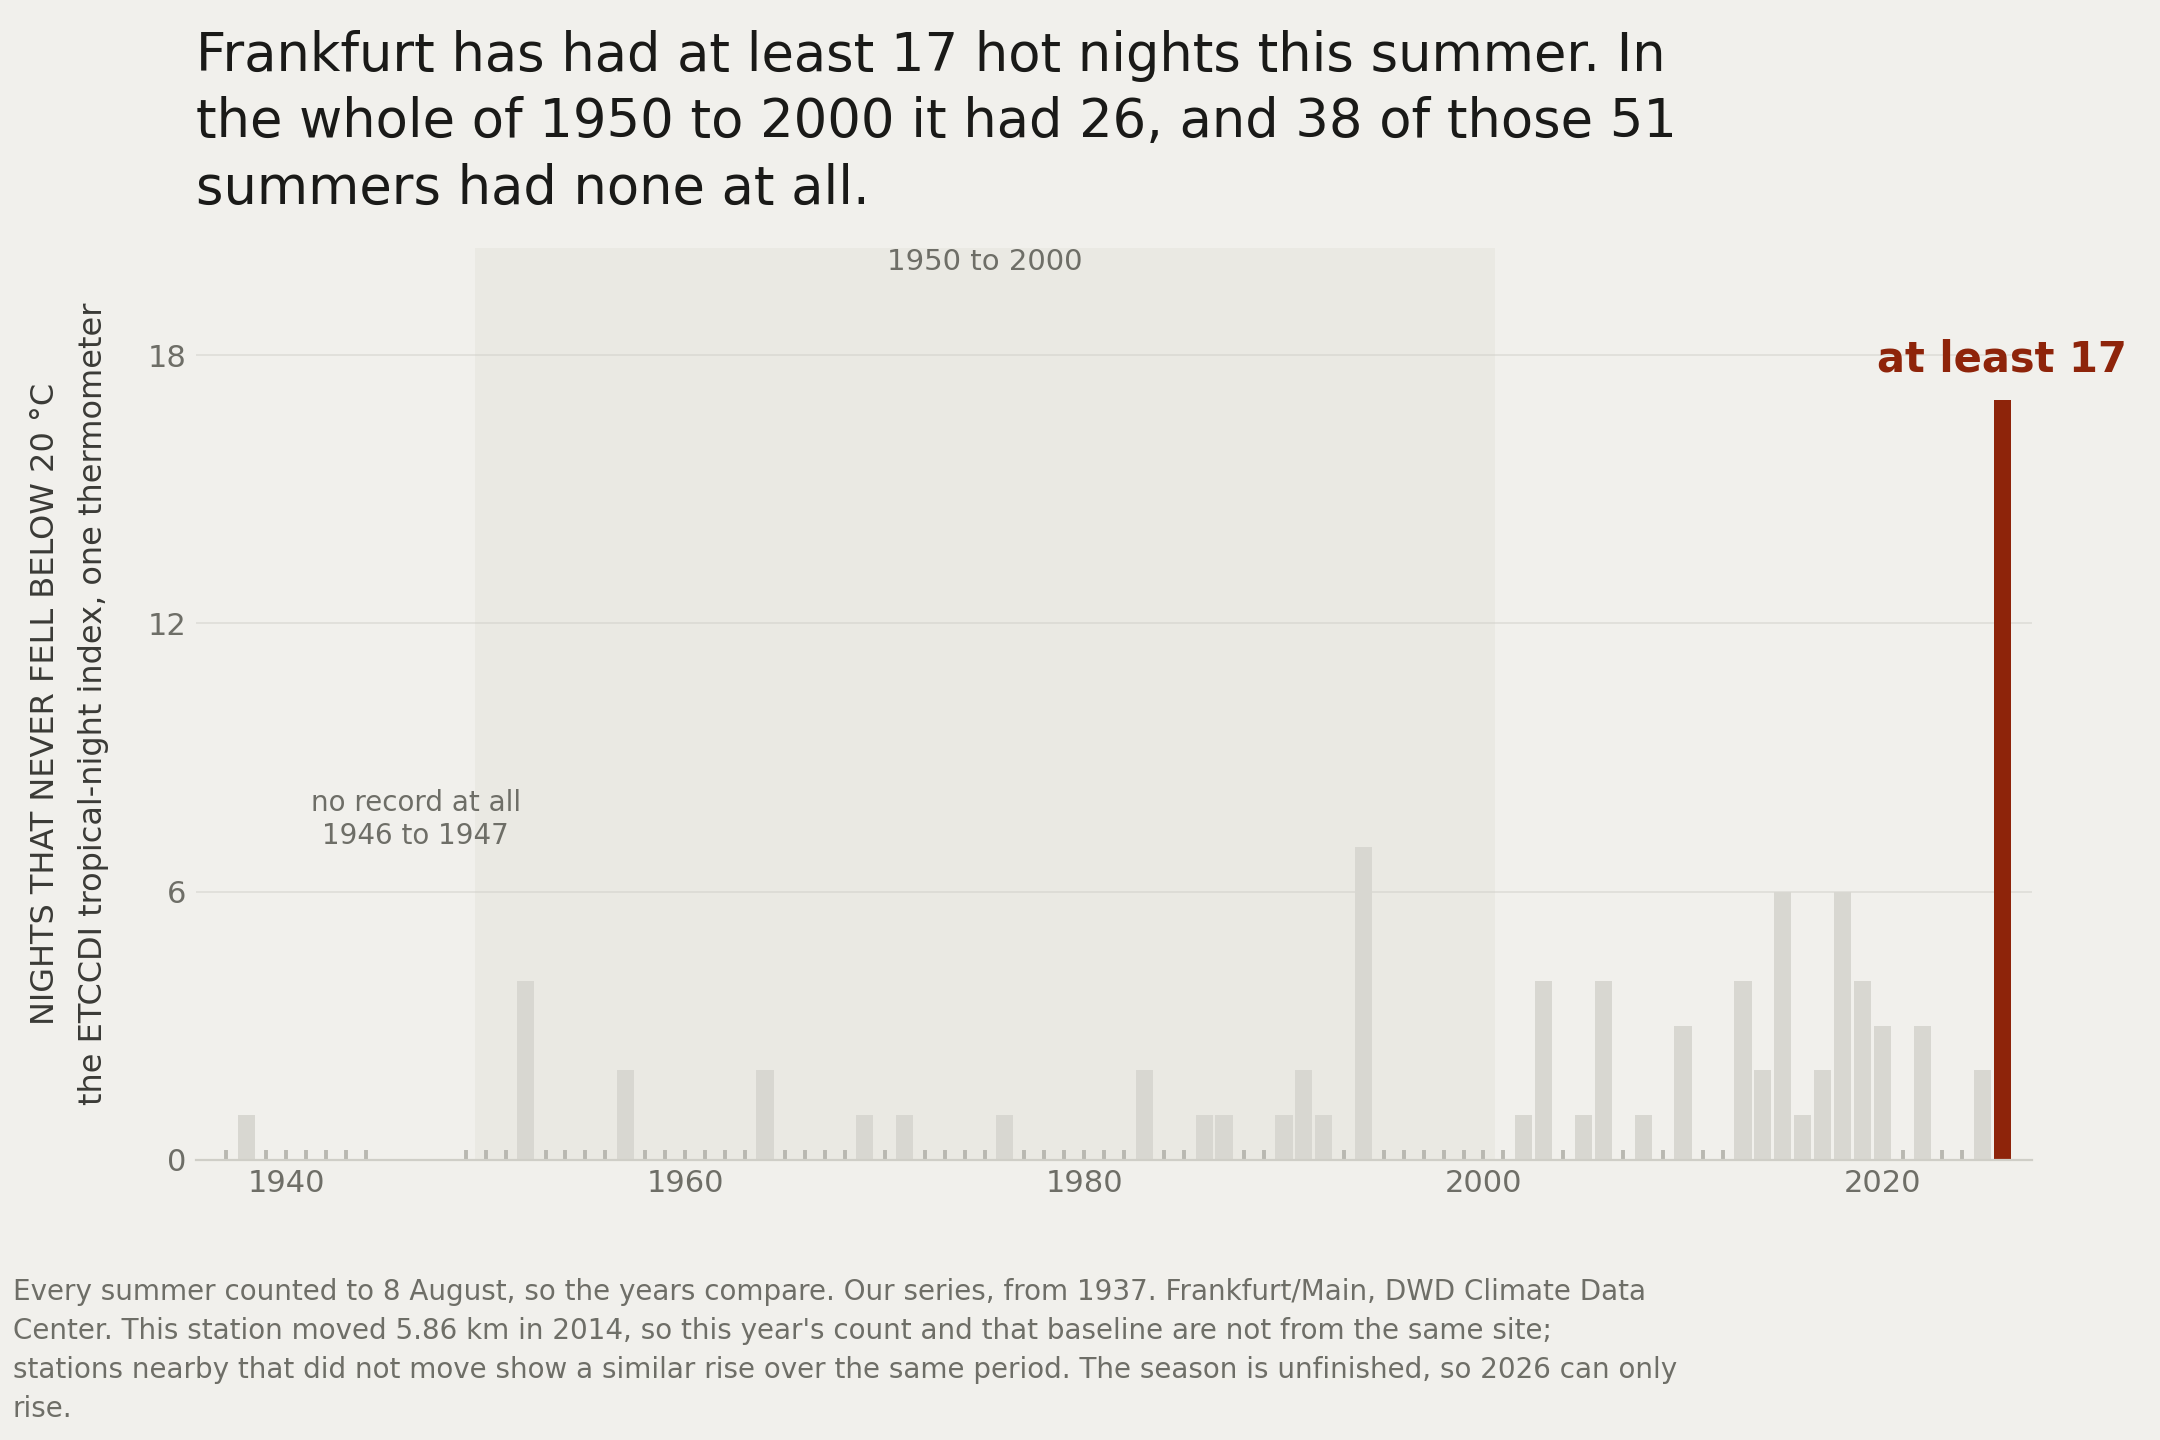
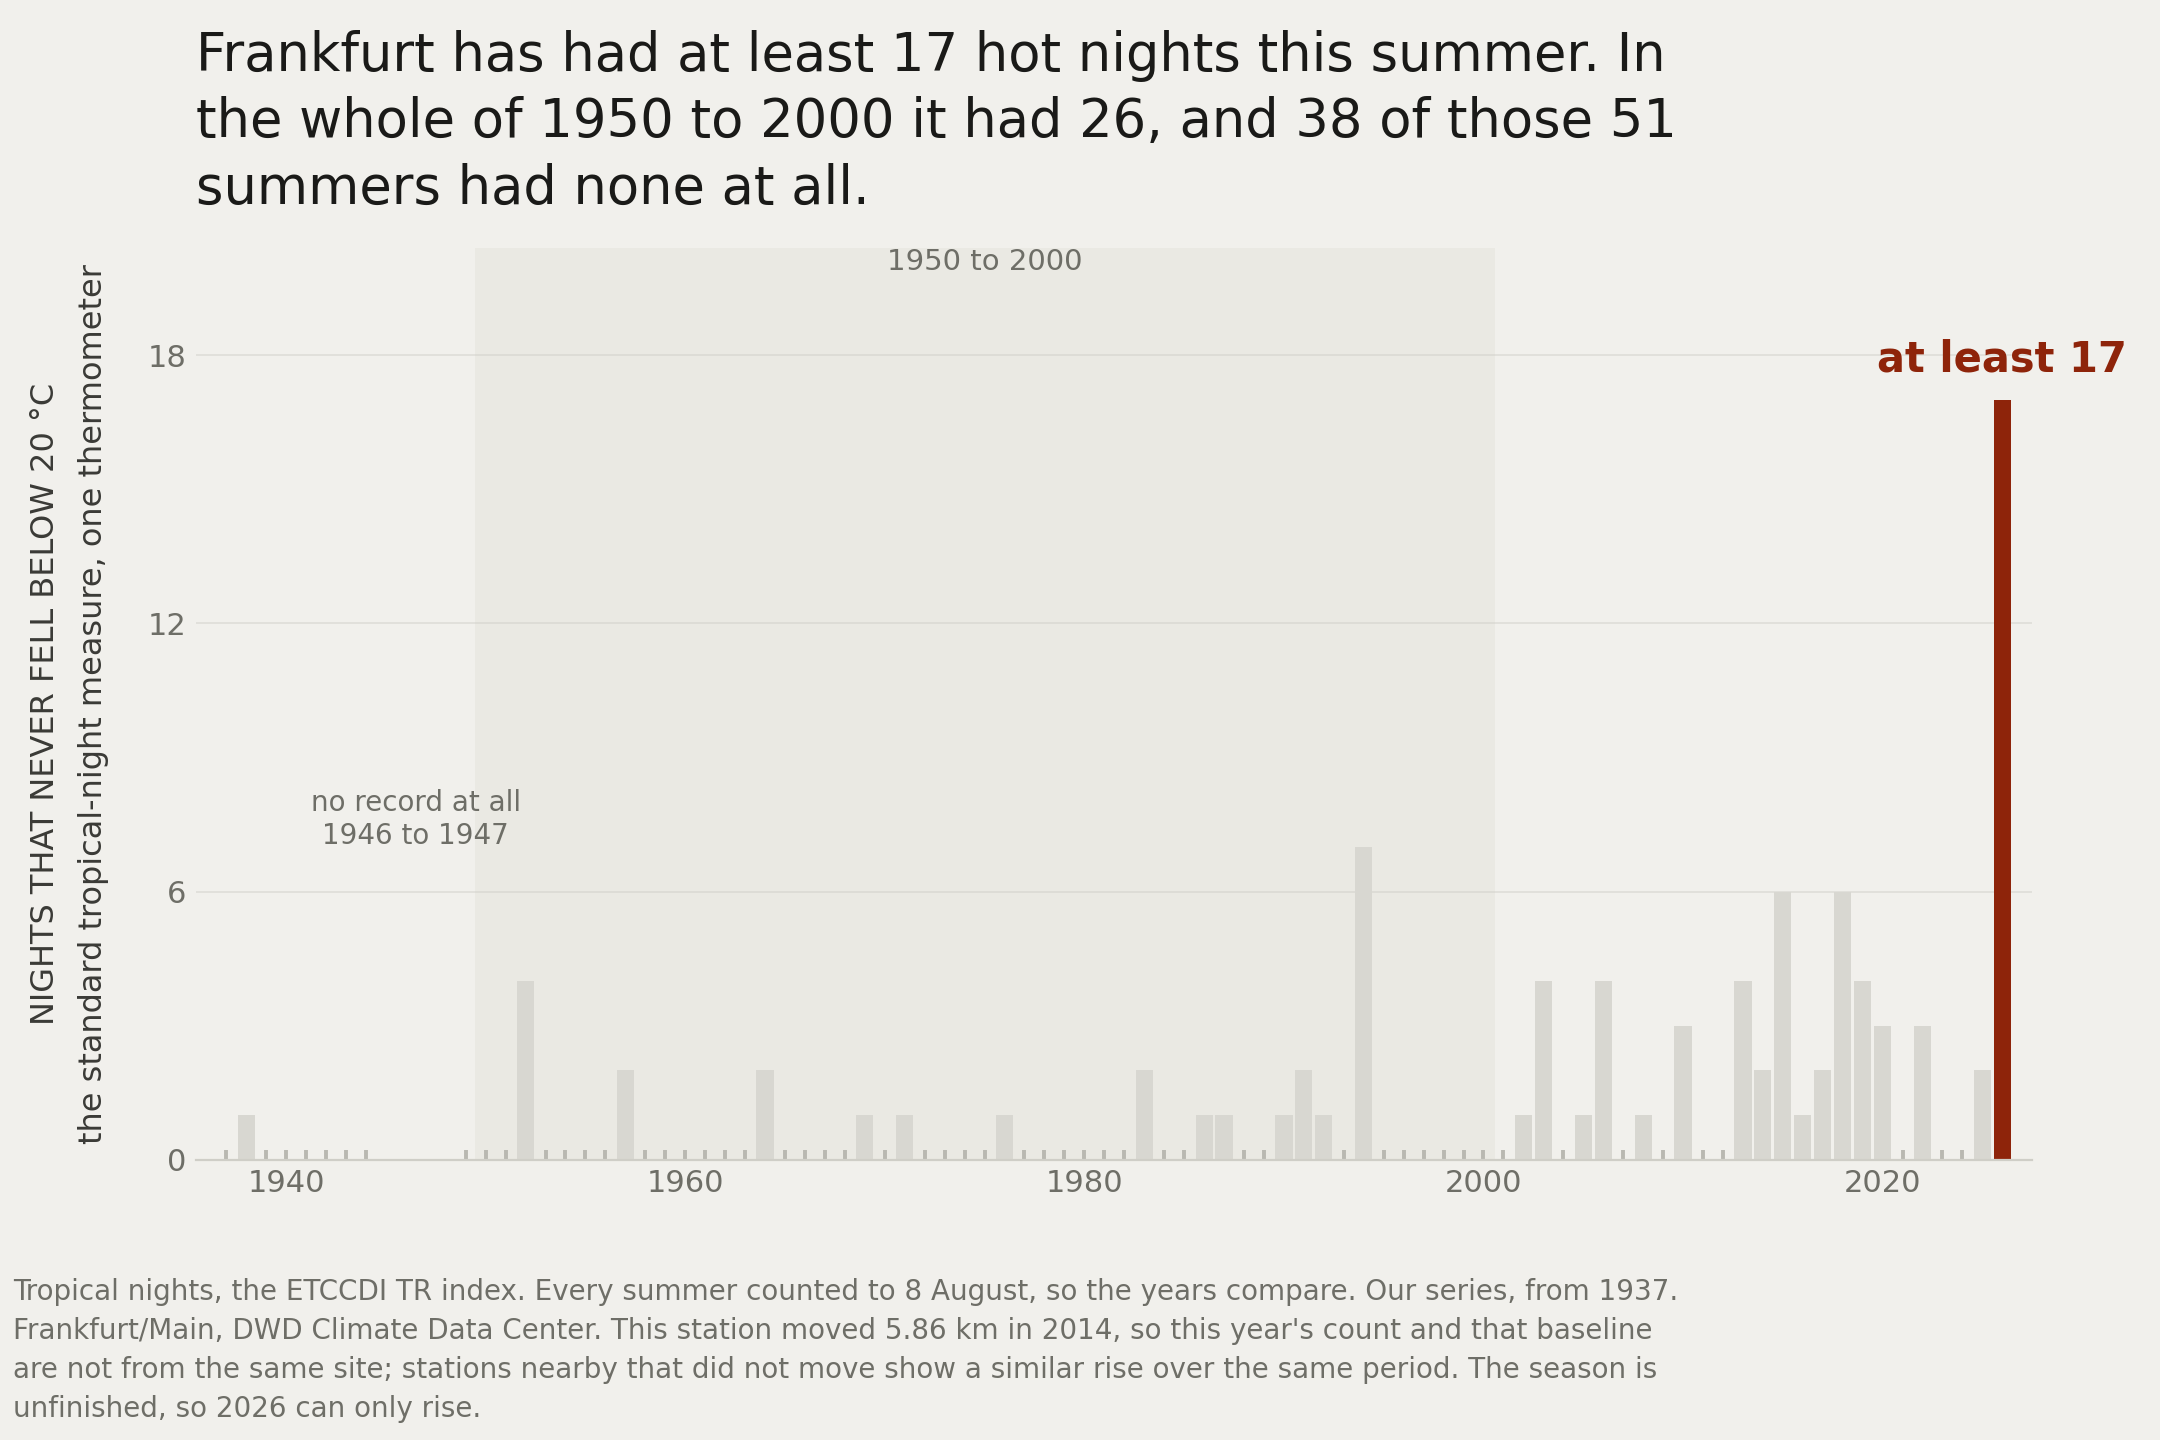
notes: plain words on the axis, the acronym in the footer
Editor's standards forbid an unglossed index name, and the Frankfurt
y-axis carried ETCCDI on the one part of the figure that travels alone.
It was also redundant where it sat: the line above already says what
the index is, in words a reader does not have to look up.

The axis now reads "the standard tropical-night measure, one
thermometer". ETCCDI moves to the footer, where provenance belongs and
where the signal it actually carries, that we did not invent this
metric, is worth keeping.

Their rule, their catch, and it is the same rule I would have applied
to somebody else's axis.

Changed region(s): [[0.0, 0.875, 0.7755, 1.0], [0.031, 0.1875, 0.062, 0.7812]]

diff --git a/design/make_note_chart.py b/design/make_note_chart.py
@@ -86,7 +86,13 @@ def series(city, metric, reference=None):
                 f"reference period, which compares totals instead of dividing.")
         s, now = v["series_to_same_date"], v["nights_2026"]
         axis = "NIGHTS THAT NEVER FELL BELOW 20 °C"
-        sub = "the ETCCDI tropical-night index, one thermometer"
+        # PLAIN WORDS ON THE AXIS, provenance in the footer. Editor's
+        # standards forbid an unglossed index name, and ETCCDI was doing
+        # nothing for a reader on the one part of the figure that travels
+        # alone. It was also redundant: the line above already says what the
+        # index is, in words. The acronym still earns its place in the
+        # footer, where it says we did not invent the metric.
+        sub = "the standard tropical-night measure, one thermometer"
     else:
         d = v["days"]
         s, now = d["series_to_same_date"], d["days_2026"]["95"]
@@ -249,7 +255,10 @@ def draw(city, metric, reference=None):
         linespacing=1.35)
 
     # Everything a page would have carried elsewhere, on the image.
-    foot = [f"Every summer counted to {cut}, so the years compare.",
+    foot = []
+    if metric == "nights":
+        foot.append("Tropical nights, the ETCCDI TR index.")
+    foot += [f"Every summer counted to {cut}, so the years compare.",
             f"{v['record_scope']['text'].capitalize()}.",
             # Some services publish the station name in caps (ORLY,
             # VALENCIA) and others mixed (Wien Hohe Warte). Title-cased only
